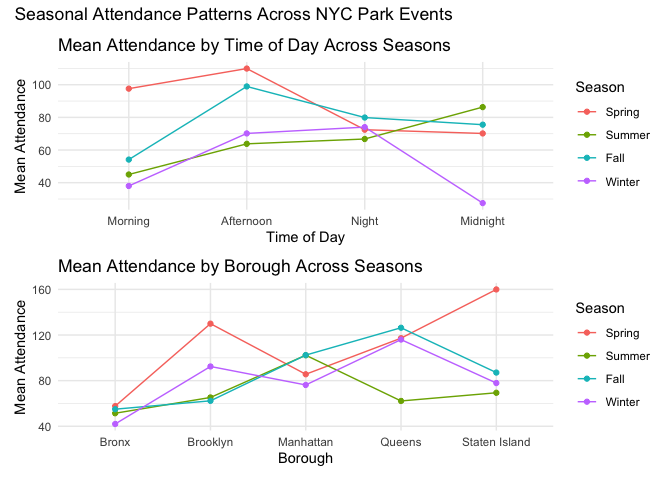
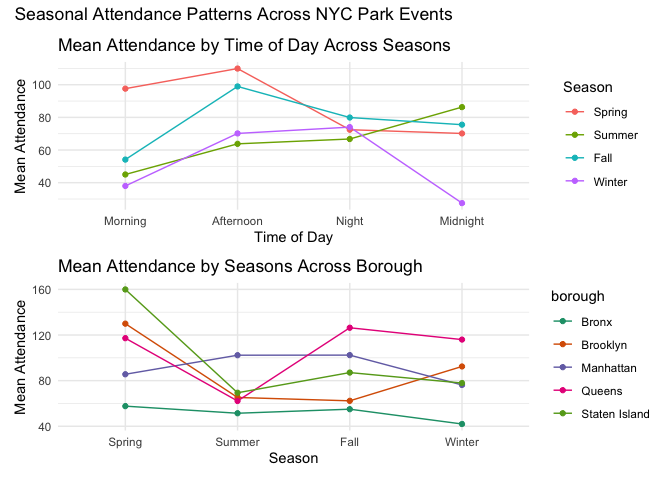
Describe plots

diff --git a/data.md b/data.md
@@ -227,6 +227,16 @@ patterns_plot
 
 ![](data_files/figure-gfm/unnamed-chunk-4-1.png)<!-- -->
 
+Figure displays violin–boxplots of attendance by season, time of day,
+borough, event type, and location type. These plots summarize both the
+distribution (violin shape) and central tendency (box plot) for each
+category, allowing visual comparison of how attendance varies across
+park events. We restricted the y-axis to 0–250 attendees because most
+events fall within this range, while a small number of very large events
+have much higher attendance. Without this limit, those extreme values
+compress the main body of the data and make differences between typical
+events difficult to see.
+
 ``` r
 plot_time_season =
   parkevent |>
@@ -254,17 +264,18 @@ plot_borough_season =
   parkevent |>
   group_by(borough, season) |>
   summarize(mean_attendance = mean(attendance)) |>
-  ggplot(aes(x = borough, 
+  ggplot(aes(x = season, 
              y = mean_attendance, 
-             color = season, 
-             group = season)) +
+             color = borough, 
+             group = borough)) +
   geom_line() +
   geom_point() +
+   scale_color_brewer(palette = "Dark2") +  
   labs(
-    title = "Mean Attendance by Borough Across Seasons",
-    x = "Borough",
+    title = "Mean Attendance by Seasons Across Borough",
+    x = "Season",
     y = "Mean Attendance",
-    color = "Season") +
+    color = "borough") +
   theme_minimal()
 ```
 
@@ -282,16 +293,27 @@ Seasonal_plot
 
 ![](data_files/figure-gfm/unnamed-chunk-5-1.png)<!-- -->
 
+The first plot shows how mean attendance varies by time of day across
+seasons. Spring consistently has the highest turnout, especially in the
+afternoon, while Winter shows the sharpest decline at midnight. Fall
+attendance remains relatively stable across all times, whereas Summer
+gradually increases into the evening. The second plot compares mean
+attendance by seasons across borough. Staten Island and Queens show the
+highest seasonal peaks, particularly in Spring. Brooklyn and Manhattan
+maintain moderate attendance across seasons, while the Bronx shows the
+lowest and least variable averages. Together, these trends highlight
+clear seasonal and geographic differences in NYC park event engagement.
+
 ``` r
 plot_calendar =
   ggplot(parkevent, 
          aes(x = month(date, label = TRUE, abbr = TRUE), 
              y = attendance)) +
-  geom_point(alpha = 0.2, color = "gray") +
+  geom_point(alpha = 0.2, color = "gray70") +
   stat_summary(fun = mean, geom = "line", aes(group = 1),
-               color = "black", size = 1) +
+               color = "cornflowerblue", size = 1) +
   stat_summary(fun = mean, geom = "point",
-               color = "black", size = 2) +
+               color = "cornflowerblue", size = 2) +
   labs(
     title = "Attendance Over the Calendar Year",
     x = "Month",
@@ -311,3 +333,14 @@ plot_calendar
 ```
 
 ![](data_files/figure-gfm/unnamed-chunk-6-1.png)<!-- -->
+
+This plot shows how park event attendance varies throughout the calendar
+year by combining individual event points with a smoothed monthly trend
+line. Grey points display the full distribution of attendance for all
+events, allowing visualization of variability within each month. Monthly
+averages are overlaid as a blue line to highlight broader seasonal
+patterns that daily fluctuations may obscure. The results show a dip in
+February, rising attendance during spring, a slight decline in
+midsummer, and another increase in October and December. Using monthly
+means helps reveal consistent seasonal trends while still preserving the
+underlying data distribution for context and interpretation.
